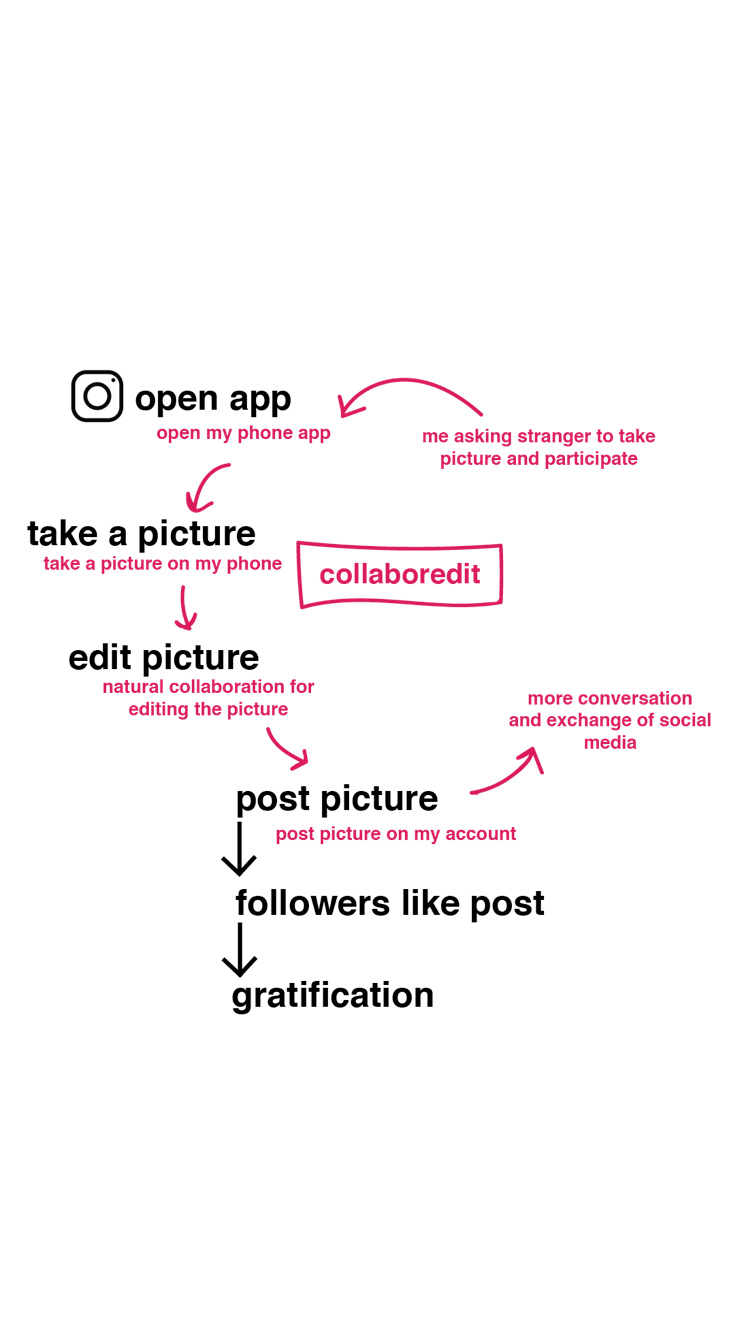
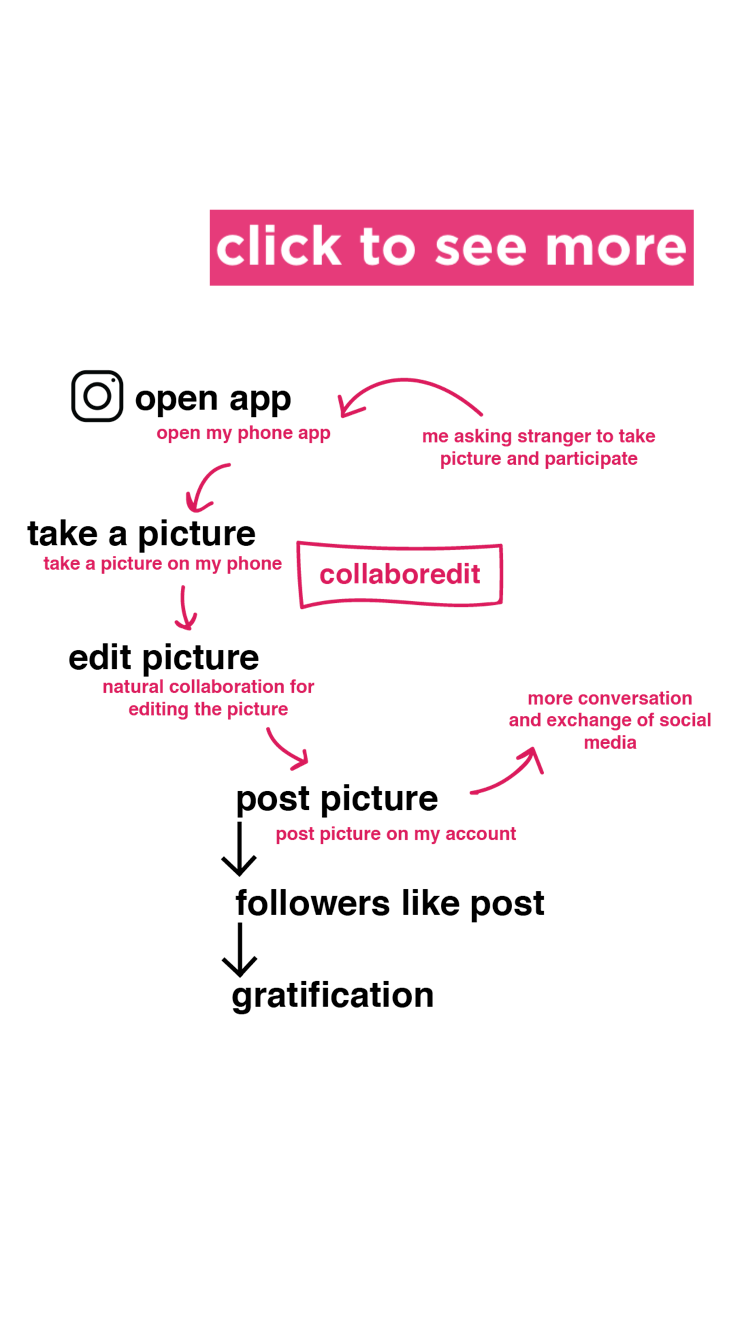
pushchange

Changed region(s): [[0.276, 0.1537, 0.9507, 0.2151]]

diff --git a/systems.html b/systems.html
@@ -1,0 +1,49 @@
+<html>
+
+<head>
+	<link rel="stylesheet" href="systemsstyle.css">
+	<link href="https://fonts.googleapis.com/css?family=Righteous|Montserrat:500" rel="stylesheet">
+
+<title>systems diagram</title>
+
+<h1><center> systems diagram </center></h1>
+
+<body>
+
+<div class="row">
+  <div class="column">
+    <h2> 
+      <span> regular instagram usage </span>
+    </h2>
+  </div>
+  <div class="column">
+    <h2> 
+      <span> collaboredit </span>
+    </h2>
+  </div>
+</div>
+
+<div class="row">
+  <div class="column">
+    <h3>open app <br> &#8595;</h3>
+    <h3>take a picture <br> &#8595;</h3>
+    <h3>edit picture <br> &#8595;</h3>
+    <h3>post picture <br> &#8595;</h3>
+    <h3>followers like post <br> &#8595;</h3>
+    <h3>gratification</h3>
+  </div>
+  <div class="column">
+    <h3>open app on <span>my phone </span> <br> &#8595; </h3>
+    <h3>take a picture on <span>my phone</span> <br> &#8595; </h3>
+    <h3>edit picture on <span>my phone and collaborate</span> <br> &#8595; </h3>
+    <h3>post picture on <span>my account</span> <br> &#8595; </h3>
+    <h3>more conversation and exchange of social media <br> &#8595; </h3>
+    <h3>participant follows instagram account <br> &#8595; </h3>
+    <h3>curiousity about how the picture is doing <br> &#8595; </h3>
+    <h3>possible gratification from looking at post </h3>
+  </div>
+</div>
+
+</body>
+
+</html> 

diff --git a/systemsstyle.css b/systemsstyle.css
@@ -1,0 +1,58 @@
+body {
+	height: 120%;
+	background: linear-gradient(90deg, rgba(251,173,80,1) 0%, rgba(188,42,141,1) 35%, rgba(138,58,185,1) 100%);
+}
+
+
+h1 {
+	font-family: 'Righteous', cursive;
+	font-size: 60px; 
+	font-style: normal; 
+	font-variant: normal; 
+	color: white;
+	letter-spacing: 2.5px;
+	padding-top: 55px;
+}
+
+h2 {
+    font-family: 'Montserrat', sans-serif;
+	font-size: 25px; 
+	font-style: normal; 
+	font-variant: normal; 
+	color: black;
+	text-align: center;
+
+}
+
+h2 span { 
+    background-color: white; 
+    padding-left: 20px;
+    padding-right: 20px;
+    padding-top: 5px;
+    padding-bottom: 5px;
+}
+
+h3 {
+	font-family: 'Helvetica', sans-serif;
+	font-size: 25px;
+	font-style: normal;
+	font-variant: normal;
+	color: white;
+	text-align: center;
+}
+
+h3 span{
+	font-style: italic;
+}
+
+.column {
+    float: left;
+    width: 50%;
+}
+
+/* Clear floats after the columns */
+.row:after {
+    content: "";
+    display: table;
+    clear: both;
+}

diff --git a/about.html b/about.html
@@ -17,10 +17,18 @@
     <div class="flip-card">
       <div class="flip-card-inner">
         <div class="flip-card-front">
-          <center> <img src="assets/systemsfront.PNG" class="responsive"> </center> 
+          <center> 
+            <a href="systems.html" target="_blank">
+            <img src="assets/instafeed.gif" class="responsive">
+             </center> 
+           </a>
         </div>
         <div class="flip-card-back">
-          <center> <img src="assets/systemsback.PNG" class="responsive"> </center>
+          <center> 
+            <a href="systems.html" target="_blank">
+            <img src="assets/systemsback.PNG" class="responsive"> 
+          </center>
+        </a>
         </div>
       </div>
     </div>
